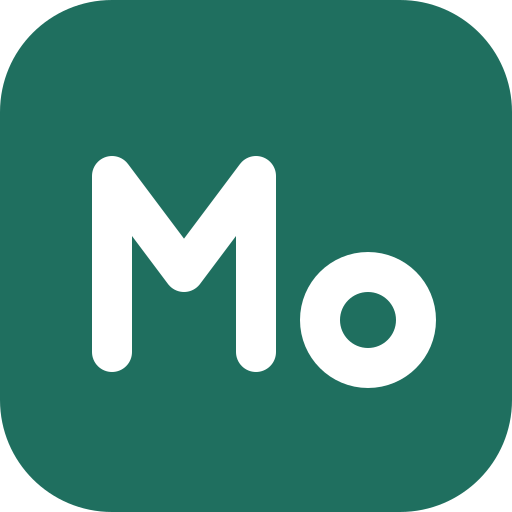
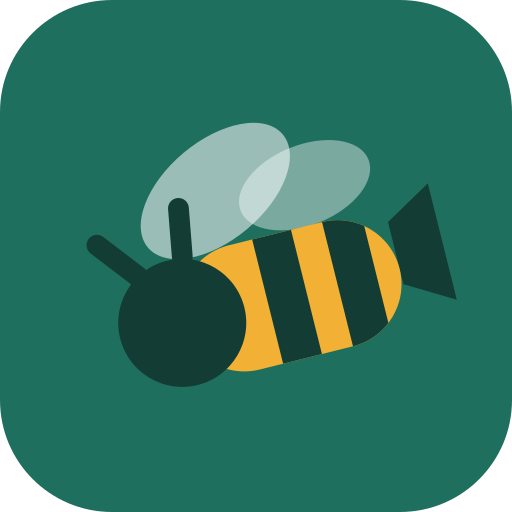
feat: replace the leftover memto M with a bee
Also add node types to tsconfig.app.json so svelte-check resolves
node:fs in the new test, and use an explicit .ts extension on the
vite.config.ts import so tsc -p tsconfig.node.json (nodenext
resolution) accepts it.

Claude-Session: https://claude.ai/code/session_0147exsth5YQrtaA7Ces2H6y

Changed region(s): [[0.1562, 0.2188, 0.9062, 0.7812]]

diff --git a/frontend/tests/pwa-icons.test.ts b/frontend/tests/pwa-icons.test.ts
@@ -1,0 +1,29 @@
+import { describe, expect, it } from 'vitest';
+import { existsSync, readFileSync } from 'node:fs';
+import { pwaIcons } from '../src/pwa-icons';
+
+const publicDir = new URL('../public/', import.meta.url);
+
+describe('pwa icons', () => {
+  it('names only files that exist', () => {
+    // The failure this catches: somebody edits icon.svg, forgets to re-run the render script,
+    // and ships a bee on the browser tab with the old artwork on the phone home screen.
+    for (const icon of pwaIcons) {
+      expect(existsSync(new URL(icon.src, publicDir)), `${icon.src} is missing`).toBe(true);
+    }
+  });
+
+  it('declares exactly one maskable icon', () => {
+    const maskable = pwaIcons.filter((i) => i.purpose?.includes('maskable'));
+    expect(maskable).toHaveLength(1);
+    // A maskable icon must be drawn with a safe zone. Declaring the tight one as maskable --
+    // which the manifest did before this change -- gets its edges clipped by the launcher.
+    expect(maskable[0].src).toBe('pwa-512-maskable.png');
+  });
+
+  it('keeps the markers the render script slices on', () => {
+    const svg = readFileSync(new URL('icon.svg', publicDir), 'utf8');
+    expect(svg).toContain('<!--bee-->');
+    expect(svg).toContain('<!--/bee-->');
+  });
+});

diff --git a/frontend/vite.config.ts b/frontend/vite.config.ts
@@ -3,6 +3,7 @@ import { defineConfig } from 'vite';
 import { svelte } from '@sveltejs/vite-plugin-svelte';
 import { VitePWA } from 'vite-plugin-pwa';
 import { readFileSync } from 'node:fs';
+import { pwaIcons } from './src/pwa-icons.ts';
 
 const pkg = JSON.parse(readFileSync(new URL('./package.json', import.meta.url), 'utf8')) as { version: string };
 
@@ -19,11 +20,7 @@ export default defineConfig({
         background_color: '#f7f7f5',
         display: 'standalone',
         start_url: '/',
-        icons: [
-          { src: 'icon.svg', sizes: 'any', type: 'image/svg+xml', purpose: 'any' },
-          { src: 'pwa-192.png', sizes: '192x192', type: 'image/png' },
-          { src: 'pwa-512.png', sizes: '512x512', type: 'image/png', purpose: 'any maskable' },
-        ],
+        icons: pwaIcons,
       },
       workbox: {
         navigateFallback: '/index.html',

diff --git a/frontend/src/pwa-icons.ts b/frontend/src/pwa-icons.ts
@@ -1,0 +1,8 @@
+/** The manifest's icon list, kept here rather than inline in vite.config.ts so a test can
+ *  import it and check every file it names actually exists. */
+export const pwaIcons: { src: string; sizes: string; type: string; purpose?: string }[] = [
+  { src: 'icon.svg', sizes: 'any', type: 'image/svg+xml', purpose: 'any' },
+  { src: 'pwa-192.png', sizes: '192x192', type: 'image/png' },
+  { src: 'pwa-512.png', sizes: '512x512', type: 'image/png', purpose: 'any' },
+  { src: 'pwa-512-maskable.png', sizes: '512x512', type: 'image/png', purpose: 'maskable' },
+];
